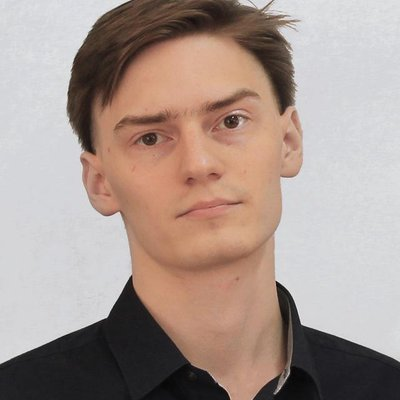
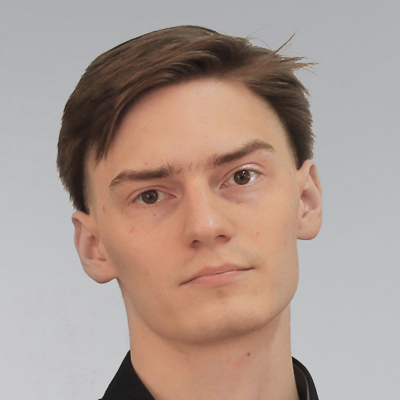
compiled with photos

diff --git a/docs/en/index.html b/docs/en/index.html
@@ -625,7 +625,7 @@
       
     
     
-      <a href="/amr-cloud-hugo/en/authors/avramenko-aa/"><img class="portrait" src="/amr-cloud-hugo/en/authors/avramenko-aa/avatar_hu2d162a35b11d6c3b9620229c7098778f_24018_150x150_fill_q90_lanczos_center.jpg" alt="Avatar"></a>
+      <a href="/amr-cloud-hugo/en/authors/avramenko-aa/"><img class="portrait" src="/amr-cloud-hugo/en/authors/avramenko-aa/avatar_hue426f4faf5de4fd44bf0cca90278a917_101936_150x150_fill_q90_lanczos_center.jpg" alt="Avatar"></a>
     
 
     <div class="portrait-title">
@@ -650,7 +650,7 @@
       
     
     
-      <a href="/amr-cloud-hugo/en/authors/kuzmenkov-ay/"><img class="portrait" src="/amr-cloud-hugo/en/authors/kuzmenkov-ay/avatar_hu2a2544c0f84754242cf1528f49dc0b1b_31481_150x150_fill_q90_lanczos_center.jpg" alt="Avatar"></a>
+      <a href="/amr-cloud-hugo/en/authors/kuzmenkov-ay/"><img class="portrait" src="/amr-cloud-hugo/en/authors/kuzmenkov-ay/avatar_hu9b8cacd4cb917edc1e0cd54075659981_101934_150x150_fill_q90_lanczos_center.jpg" alt="Avatar"></a>
     
 
     <div class="portrait-title">
@@ -675,7 +675,7 @@
       
     
     
-      <a href="/amr-cloud-hugo/en/authors/trushin-iv/"><img class="portrait" src="/amr-cloud-hugo/en/authors/trushin-iv/avatar_huf613f626736683b080b95af700b28bf8_20373_150x150_fill_q90_lanczos_center.jpg" alt="Avatar"></a>
+      <a href="/amr-cloud-hugo/en/authors/trushin-iv/"><img class="portrait" src="/amr-cloud-hugo/en/authors/trushin-iv/avatar_huf8407fd8a71d7cd06c14ee8f1c0d7ee7_98376_150x150_fill_q90_lanczos_center.jpg" alt="Avatar"></a>
     
 
     <div class="portrait-title">

diff --git a/docs/ru/index.html b/docs/ru/index.html
@@ -625,7 +625,7 @@
       
     
     
-      <a href="/amr-cloud-hugo/ru/authors/avramenko-aa/"><img class="portrait" src="/amr-cloud-hugo/ru/authors/avramenko-aa/avatar_hu2d162a35b11d6c3b9620229c7098778f_24018_150x150_fill_q90_lanczos_center.jpg" alt="Avatar"></a>
+      <a href="/amr-cloud-hugo/ru/authors/avramenko-aa/"><img class="portrait" src="/amr-cloud-hugo/ru/authors/avramenko-aa/avatar_hue426f4faf5de4fd44bf0cca90278a917_101936_150x150_fill_q90_lanczos_center.jpg" alt="Avatar"></a>
     
 
     <div class="portrait-title">
@@ -650,7 +650,7 @@
       
     
     
-      <a href="/amr-cloud-hugo/ru/authors/kuzmenkov-ay/"><img class="portrait" src="/amr-cloud-hugo/ru/authors/kuzmenkov-ay/avatar_hu2a2544c0f84754242cf1528f49dc0b1b_31481_150x150_fill_q90_lanczos_center.jpg" alt="Avatar"></a>
+      <a href="/amr-cloud-hugo/ru/authors/kuzmenkov-ay/"><img class="portrait" src="/amr-cloud-hugo/ru/authors/kuzmenkov-ay/avatar_hu9b8cacd4cb917edc1e0cd54075659981_101934_150x150_fill_q90_lanczos_center.jpg" alt="Avatar"></a>
     
 
     <div class="portrait-title">
@@ -675,7 +675,7 @@
       
     
     
-      <a href="/amr-cloud-hugo/ru/authors/trushin-iv/"><img class="portrait" src="/amr-cloud-hugo/ru/authors/trushin-iv/avatar_huf613f626736683b080b95af700b28bf8_20373_150x150_fill_q90_lanczos_center.jpg" alt="Avatar"></a>
+      <a href="/amr-cloud-hugo/ru/authors/trushin-iv/"><img class="portrait" src="/amr-cloud-hugo/ru/authors/trushin-iv/avatar_huf8407fd8a71d7cd06c14ee8f1c0d7ee7_98376_150x150_fill_q90_lanczos_center.jpg" alt="Avatar"></a>
     
 
     <div class="portrait-title">

diff --git a/docs/en/authors/avramenko-aa/index.html b/docs/en/authors/avramenko-aa/index.html
@@ -369,7 +369,7 @@
 
       
       
-      <img class="portrait" src="/amr-cloud-hugo/en/authors/avramenko-aa/avatar_hu2d162a35b11d6c3b9620229c7098778f_24018_250x250_fill_q90_lanczos_center.jpg" itemprop="image" alt="Avatar">
+      <img class="portrait" src="/amr-cloud-hugo/en/authors/avramenko-aa/avatar_hue426f4faf5de4fd44bf0cca90278a917_101936_250x250_fill_q90_lanczos_center.jpg" itemprop="image" alt="Avatar">
       
 
       <div class="portrait-title">

diff --git a/docs/en/authors/kuzmenkov-ay/index.html b/docs/en/authors/kuzmenkov-ay/index.html
@@ -369,7 +369,7 @@
 
       
       
-      <img class="portrait" src="/amr-cloud-hugo/en/authors/kuzmenkov-ay/avatar_hu2a2544c0f84754242cf1528f49dc0b1b_31481_250x250_fill_q90_lanczos_center.jpg" itemprop="image" alt="Avatar">
+      <img class="portrait" src="/amr-cloud-hugo/en/authors/kuzmenkov-ay/avatar_hu9b8cacd4cb917edc1e0cd54075659981_101934_250x250_fill_q90_lanczos_center.jpg" itemprop="image" alt="Avatar">
       
 
       <div class="portrait-title">

diff --git a/docs/ru/authors/avramenko-aa/index.html b/docs/ru/authors/avramenko-aa/index.html
@@ -369,7 +369,7 @@
 
       
       
-      <img class="portrait" src="/amr-cloud-hugo/ru/authors/avramenko-aa/avatar_hu2d162a35b11d6c3b9620229c7098778f_24018_250x250_fill_q90_lanczos_center.jpg" itemprop="image" alt="Avatar">
+      <img class="portrait" src="/amr-cloud-hugo/ru/authors/avramenko-aa/avatar_hue426f4faf5de4fd44bf0cca90278a917_101936_250x250_fill_q90_lanczos_center.jpg" itemprop="image" alt="Avatar">
       
 
       <div class="portrait-title">

diff --git a/docs/ru/authors/kuzmenkov-ay/index.html b/docs/ru/authors/kuzmenkov-ay/index.html
@@ -369,7 +369,7 @@
 
       
       
-      <img class="portrait" src="/amr-cloud-hugo/ru/authors/kuzmenkov-ay/avatar_hu2a2544c0f84754242cf1528f49dc0b1b_31481_250x250_fill_q90_lanczos_center.jpg" itemprop="image" alt="Avatar">
+      <img class="portrait" src="/amr-cloud-hugo/ru/authors/kuzmenkov-ay/avatar_hu9b8cacd4cb917edc1e0cd54075659981_101934_250x250_fill_q90_lanczos_center.jpg" itemprop="image" alt="Avatar">
       
 
       <div class="portrait-title">

diff --git a/docs/en/authors/trushin-iv/index.html b/docs/en/authors/trushin-iv/index.html
@@ -369,7 +369,7 @@
 
       
       
-      <img class="portrait" src="/amr-cloud-hugo/en/authors/trushin-iv/avatar_huf613f626736683b080b95af700b28bf8_20373_250x250_fill_q90_lanczos_center.jpg" itemprop="image" alt="Avatar">
+      <img class="portrait" src="/amr-cloud-hugo/en/authors/trushin-iv/avatar_huf8407fd8a71d7cd06c14ee8f1c0d7ee7_98376_250x250_fill_q90_lanczos_center.jpg" itemprop="image" alt="Avatar">
       
 
       <div class="portrait-title">

diff --git a/docs/ru/authors/trushin-iv/index.html b/docs/ru/authors/trushin-iv/index.html
@@ -369,7 +369,7 @@
 
       
       
-      <img class="portrait" src="/amr-cloud-hugo/ru/authors/trushin-iv/avatar_huf613f626736683b080b95af700b28bf8_20373_250x250_fill_q90_lanczos_center.jpg" itemprop="image" alt="Avatar">
+      <img class="portrait" src="/amr-cloud-hugo/ru/authors/trushin-iv/avatar_huf8407fd8a71d7cd06c14ee8f1c0d7ee7_98376_250x250_fill_q90_lanczos_center.jpg" itemprop="image" alt="Avatar">
       
 
       <div class="portrait-title">
